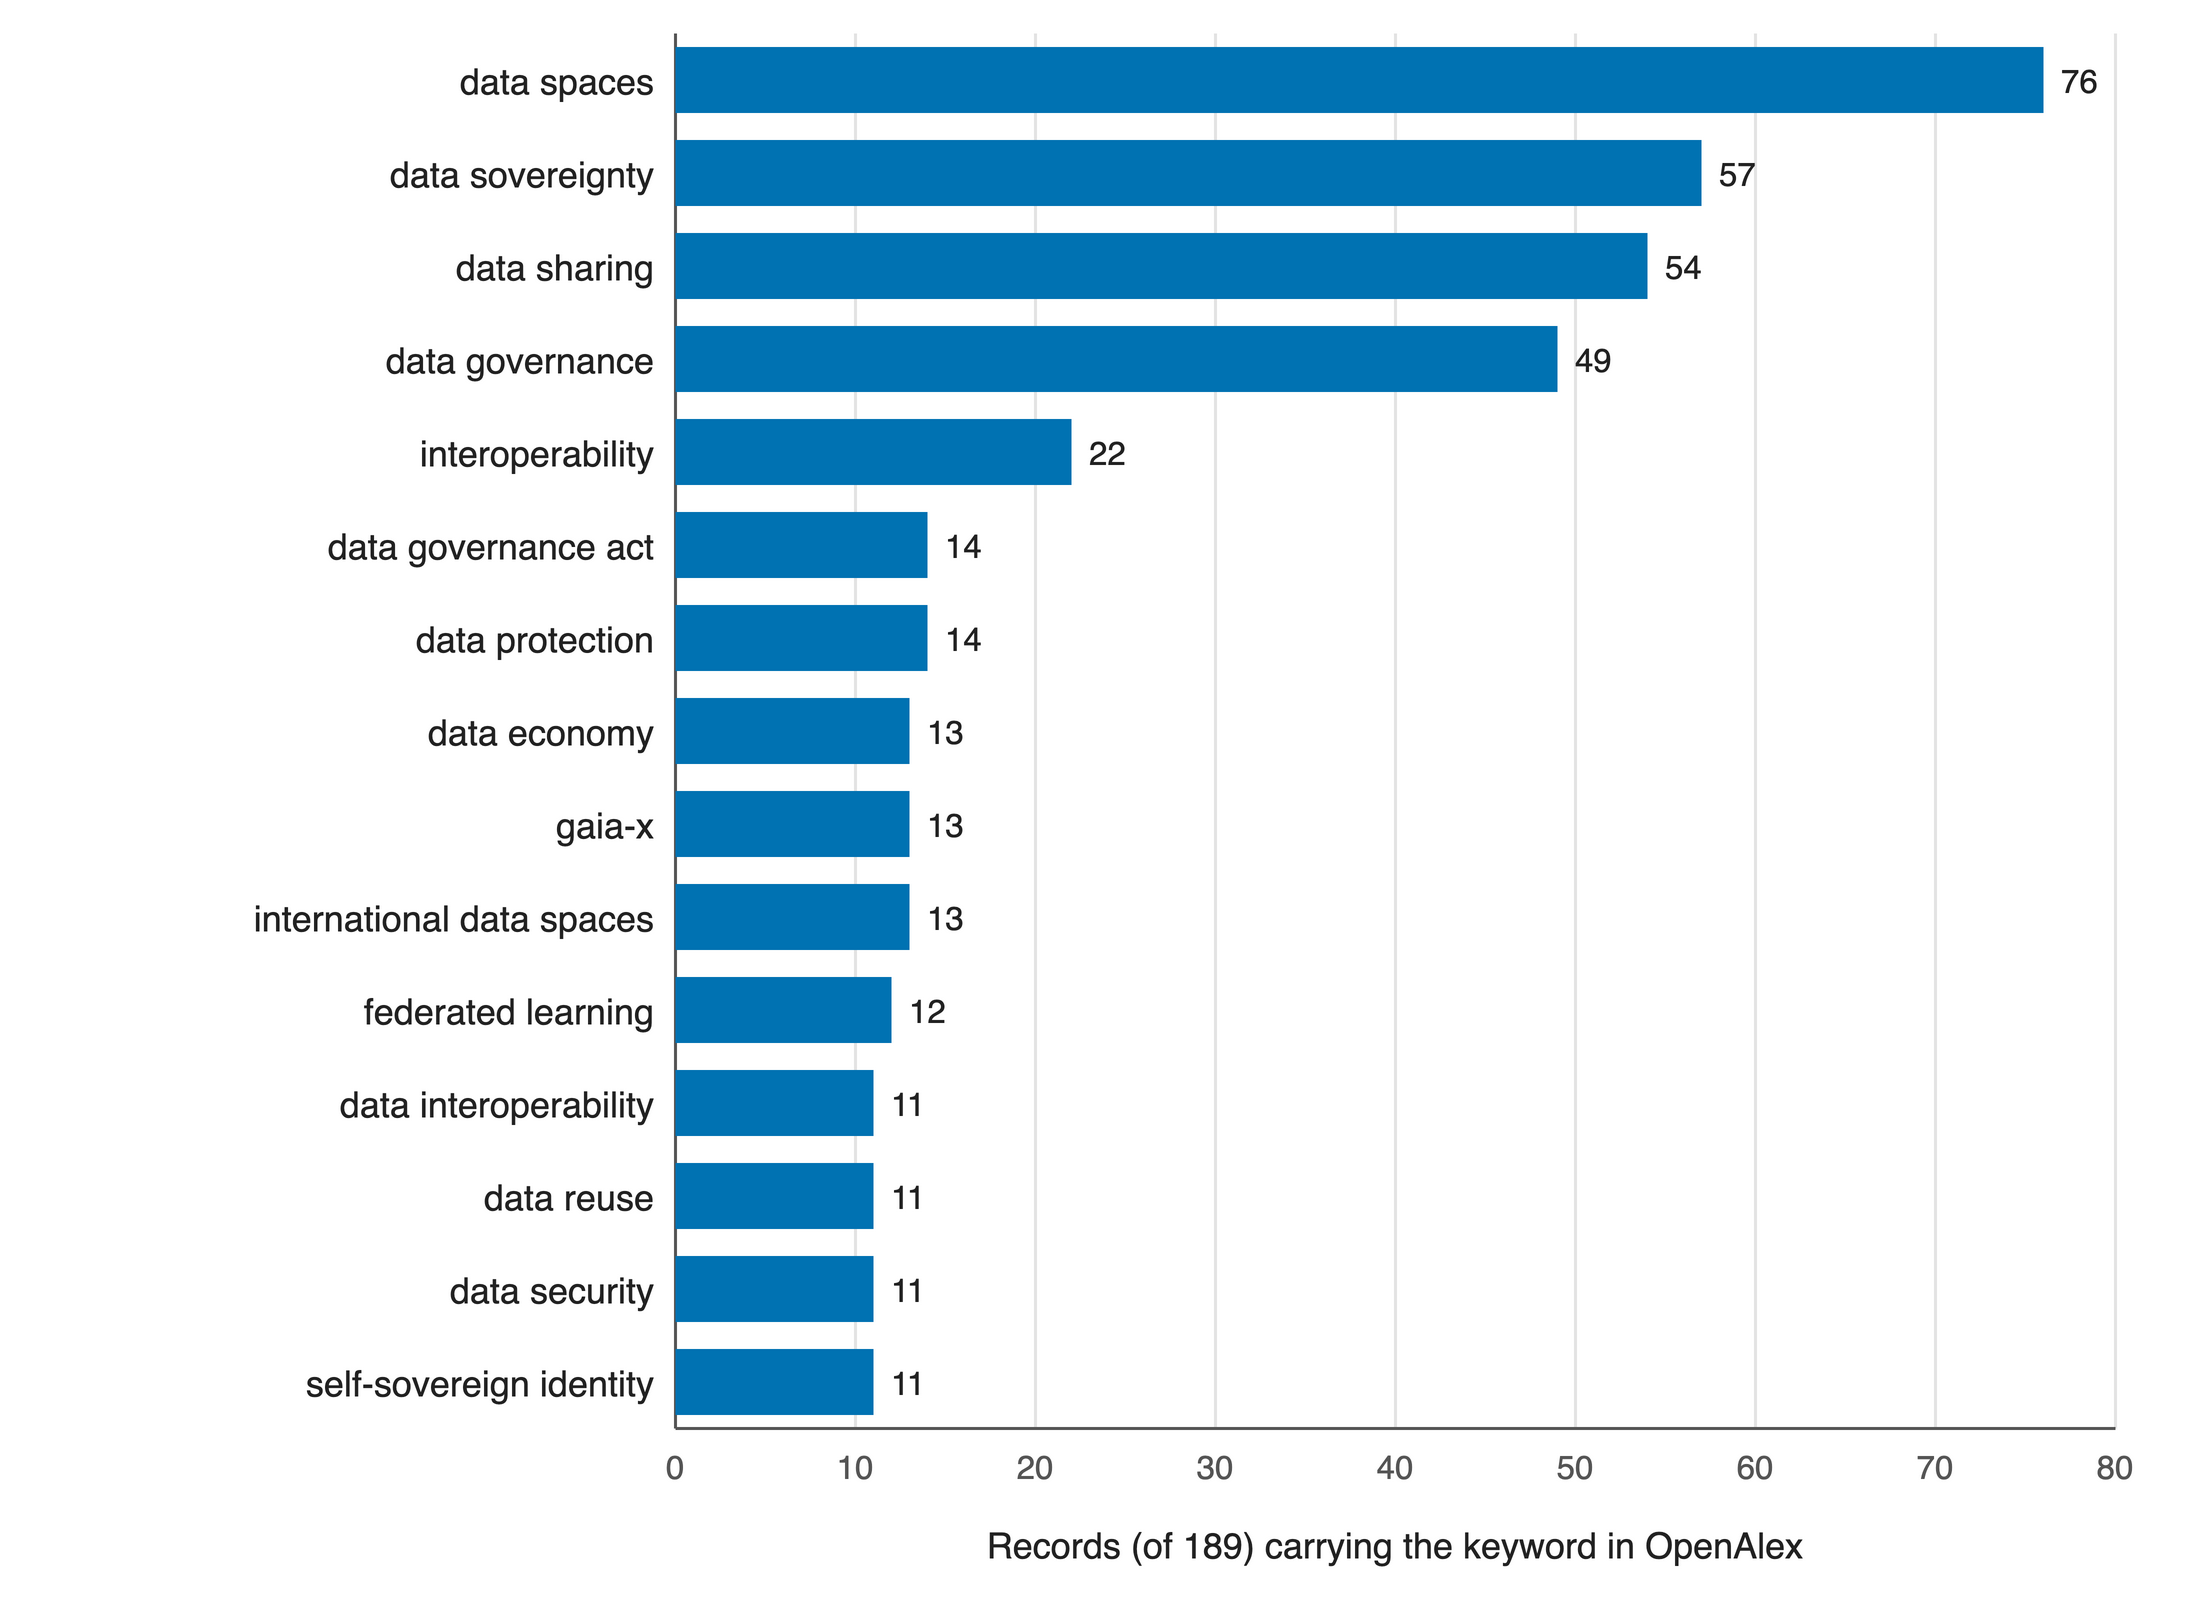
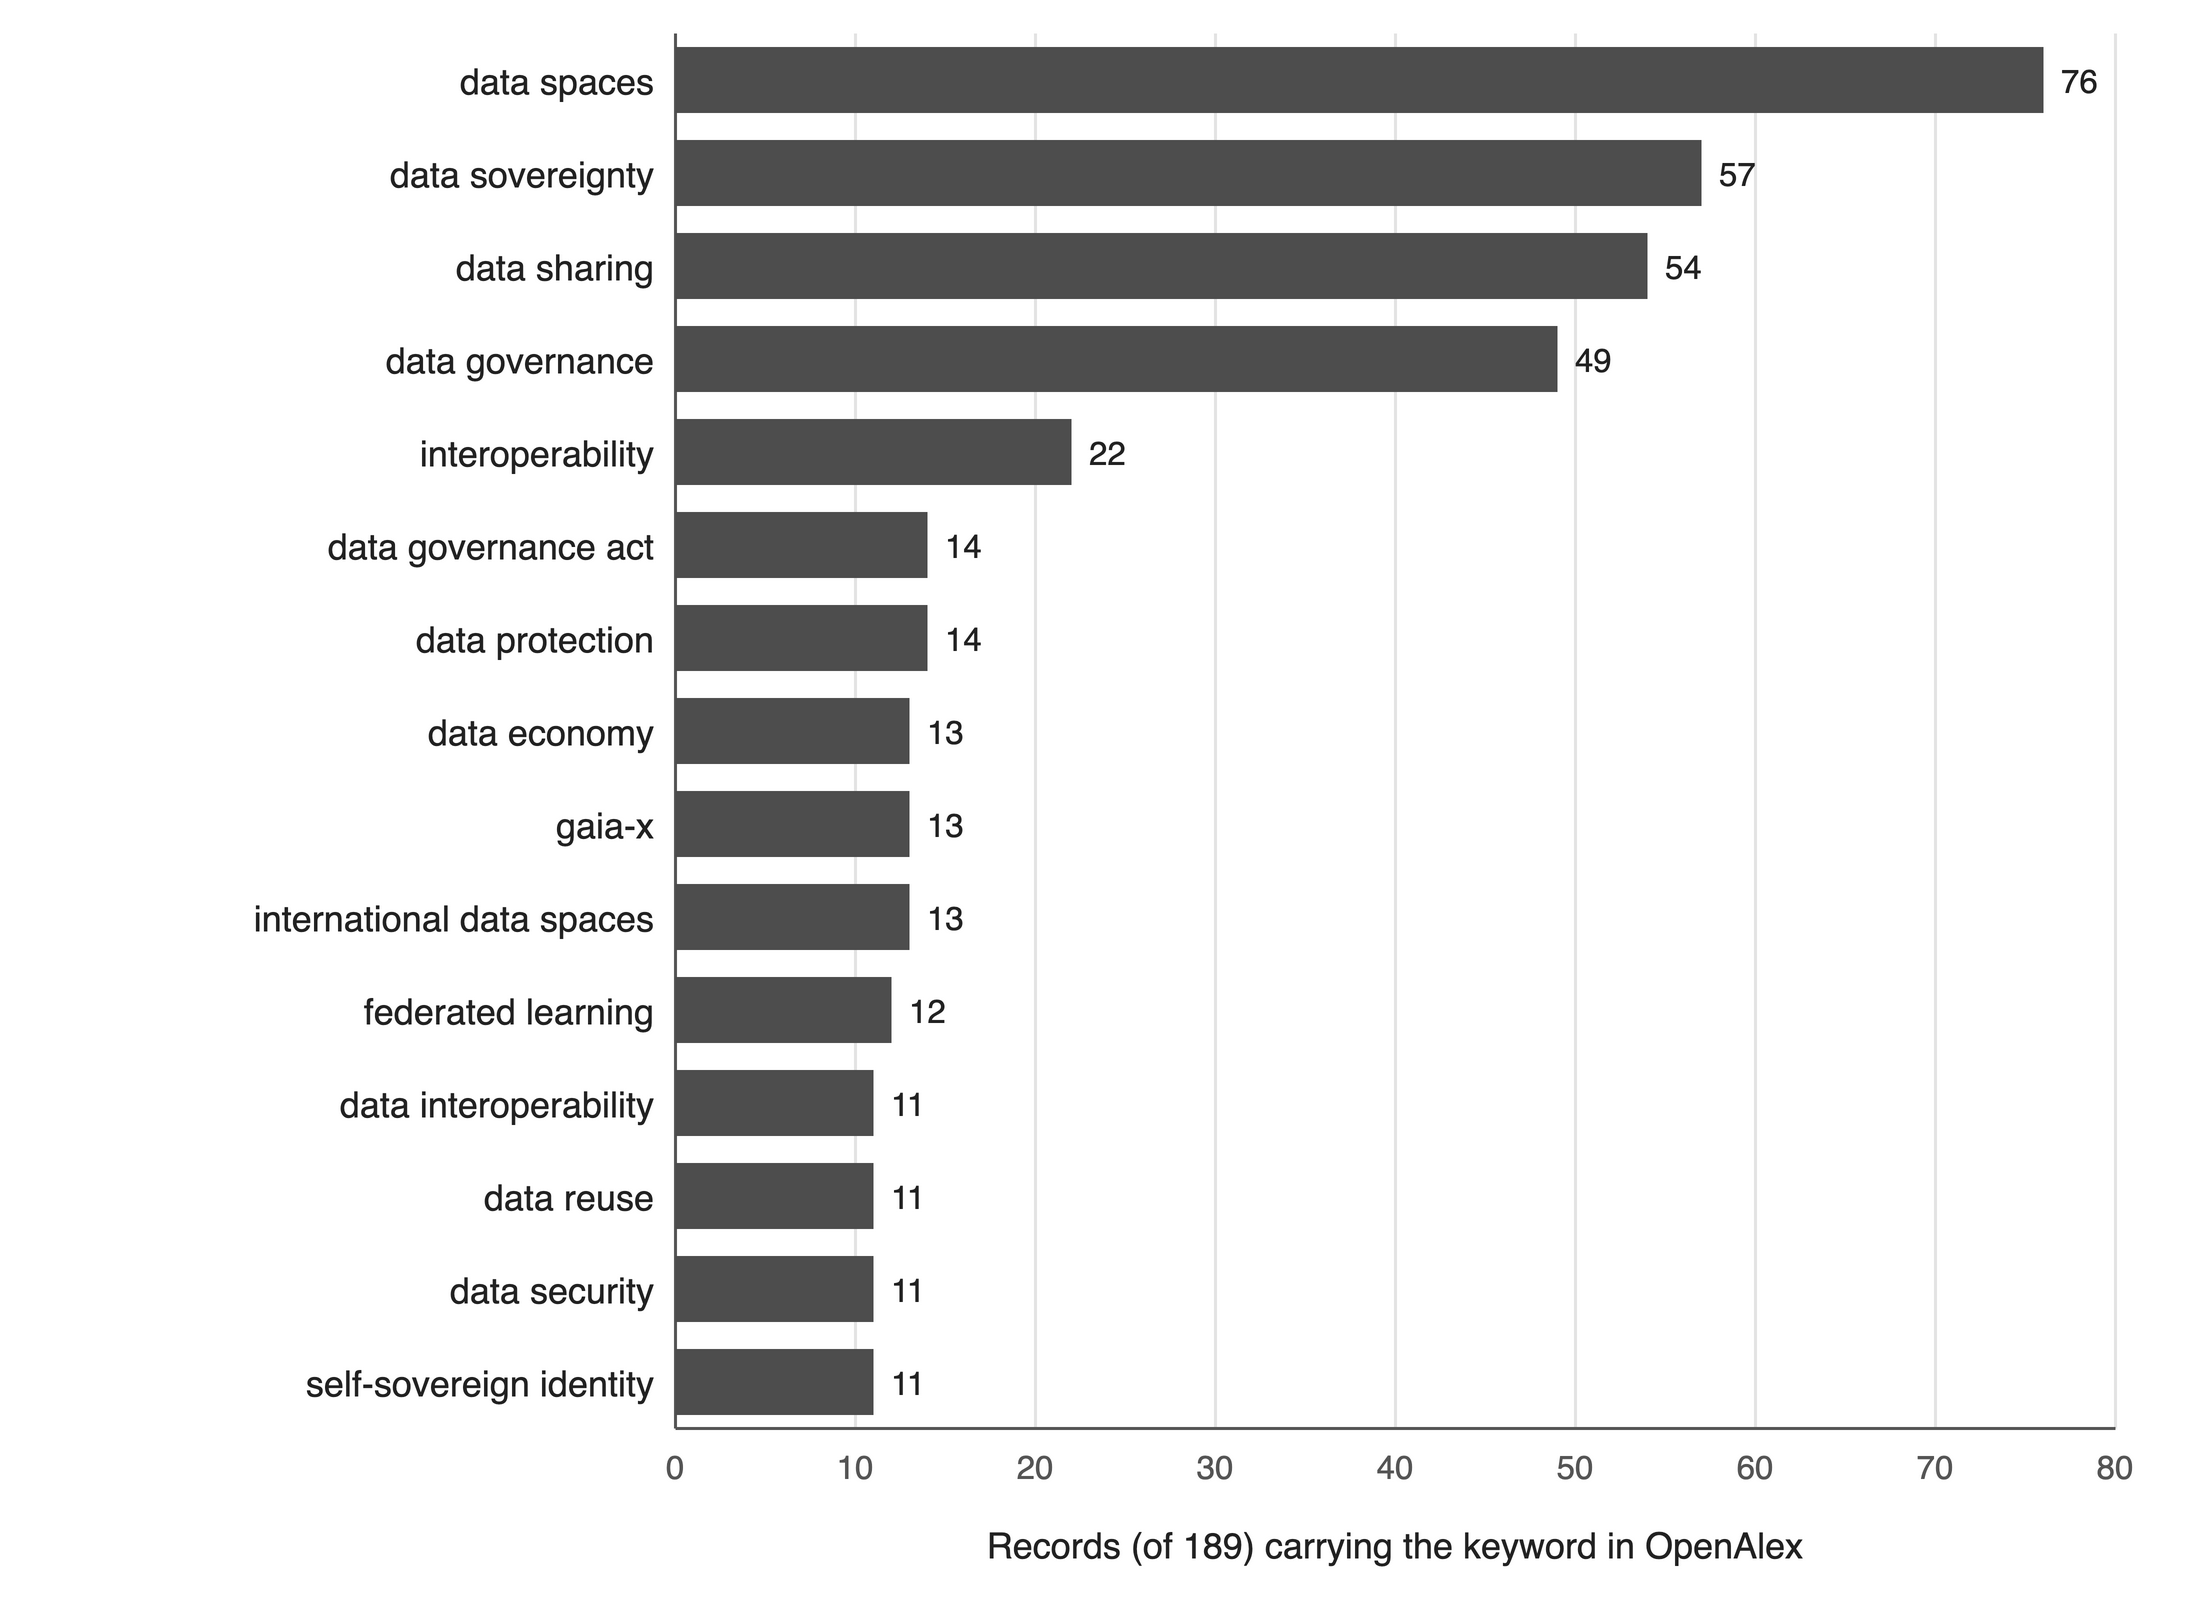
Bibliometric figures in black and white with named legends

Changed region(s): [[0.3081, 0.031, 0.9243, 0.9001]]

diff --git a/src/04_make_figures.py b/src/04_make_figures.py
@@ -20,9 +20,13 @@ RQ_NAME = {
     "RQ4": "RQ4 Gaps and challenges",
     "RQ5": "RQ5 Emerging technologies",
 }
-RQ_COL = {"RQ1": "#0072B2", "RQ2": "#E69F00", "RQ3": "#009E73",
-          "RQ4": "#CC79A7", "RQ5": "#56B4E9"}
-EV_COL = {"A": "#0072B2", "S": "#56B4E9", "M": "#BDBDBD"}
+# black-and-white palette: five grey steps, darkest first; legends carry the names
+RQ_COL = {"RQ1": "#1A1A1A", "RQ2": "#4D4D4D", "RQ3": "#8C8C8C",
+          "RQ4": "#BFBFBF", "RQ5": "#E6E6E6"}
+RQ_LEGEND = {"RQ1": "RQ1 Frameworks", "RQ2": "RQ2 Security", "RQ3": "RQ3 Interoperability",
+             "RQ4": "RQ4 Gaps", "RQ5": "RQ5 Technologies"}
+BAR = "#4D4D4D"
+EV_COL = {"A": "#1A1A1A", "S": "#8C8C8C", "M": "#D9D9D9"}
 EV_NAME = {"A": "A  abstract assessed", "S": "S  sections read", "M": "M  metadata only"}
 GRID, AXIS, TXT = "#E3E3E3", "#555555", "#222222"
 
@@ -87,8 +91,8 @@ def save(g, stem):
 # ---- Figure 1: records per year, stacked by research question ---------------
 rows = read("year_by_rq.csv")
 RQS = ["RQ1", "RQ2", "RQ3", "RQ4", "RQ5"]
-W, H = 760, 430
-left, top, bottom = 70, 60, 70
+W, H = 760, 480
+left, top, bottom = 70, 60, 120
 plot_w, plot_h = W - left - 30, H - top - bottom
 totals = [sum(int(r[q]) for q in RQS) for r in rows]
 vmax = nice_max(max(totals))
@@ -112,18 +116,20 @@ for i, r in enumerate(rows):
         ycur -= h
         g.rect(x, ycur, bw, h, fill=RQ_COL[q], stroke="#ffffff", stroke_w=1,
                text=str(v) if h >= 13 else "", size=11,
-               color="#ffffff" if q in ("RQ1", "RQ3", "RQ4") else "#222222")
+               color="#ffffff" if q in ("RQ1", "RQ2") else "#222222")
     g.text(x - 10, ycur - 20, bw + 20, 18, str(totals[i]), size=12, bold=True)
     g.text(x - 15, top + plot_h + 4, bw + 30, 36,
            f"{r['year']}<br>({r['unique_records']} unique)", size=11, color=TXT)
 g.text(8, top + plot_h / 2 - 10, 20, 20, "", size=11)
 g.text(left - 60, 8, 220, 22, "Placements (bold: total per year)", size=11, color=AXIS, align="left")
-lx, ly = left, H - 28
-for q in RQS:
-    g.rect(lx, ly + 4, 12, 12, fill=RQ_COL[q])
-    g.text(lx + 15, ly, 70, 20, q, size=11, align="left")
-    lx += 80
-g.text(lx + 10, ly, 300, 20, "n = number of unique records", size=11, color=AXIS, align="left")
+g.text(left, H - 84, 300, 20, "Research question (stack order, bottom to top):", size=11,
+       color=AXIS, align="left")
+for i, q in enumerate(RQS):
+    lx = left + (i % 3) * 215
+    ly = H - 60 + (i // 3) * 28
+    g.rect(lx, ly + 4, 14, 14, fill=RQ_COL[q], stroke="#666666", stroke_w=0.5)
+    g.text(lx + 19, ly, 190, 22, RQ_LEGEND[q], size=11, align="left")
+g.text(left + 2 * 215, H - 32, 280, 22, "n = unique records", size=11, color=AXIS, align="left")
 save(g, "fig_bib_1_records_per_year")
 
 # ---- Figure 2: evidence level by research question --------------------------
@@ -155,7 +161,7 @@ for i, r in enumerate(rows):
 g.text(x0, top + 5 * (bar_h + gap) + 24, plot_w, 20, "Records per research question (50 each)", size=12)
 lx, ly = 20, H - 30
 for e in ("A", "S", "M"):
-    g.rect(lx, ly + 4, 12, 12, fill=EV_COL[e])
+    g.rect(lx, ly + 4, 14, 14, fill=EV_COL[e], stroke="#666666", stroke_w=0.5)
     g.text(lx + 15, ly, 170, 20, EV_NAME[e], size=11, align="left")
     lx += 200
 save(g, "fig_bib_2_evidence_by_rq")
@@ -164,14 +170,14 @@ save(g, "fig_bib_2_evidence_by_rq")
 kw = [(r["keyword"], int(r["records"])) for r in read("keywords_top.csv")]
 kw, k_kw = cut_ties(kw, 15)
 print(f"keywords shown: {len(kw)} (records >= {k_kw})")
-save(hbar("keywords", kw, "#0072B2",
+save(hbar("keywords", kw, BAR,
           "Records (of 189) carrying the keyword in OpenAlex", label_w=210), "fig_bib_3_keywords")
 
 # ---- Figure 4: countries ----------------------------------------------------
 co = [(r["country"], int(r["records"])) for r in read("countries.csv")]
 co, k_co = cut_ties(co, 15)
 print(f"countries shown: {len(co)} (records >= {k_co})")
-save(hbar("countries", co, "#009E73",
+save(hbar("countries", co, BAR,
           "Records (of 168 with affiliation data) with at least one author in the country",
           label_w=150), "fig_bib_4_countries")
 
@@ -179,7 +185,7 @@ save(hbar("countries", co, "#009E73",
 au = [(r["author"], int(r["records"])) for r in read("authors_top.csv")]
 au, k_au = cut_ties(au, 12)
 print(f"authors shown: {len(au)} (records >= {k_au})")
-save(hbar("authors", au, "#E69F00", "Records (of 189) with the person as author",
+save(hbar("authors", au, BAR, "Records (of 189) with the person as author",
           label_w=150), "fig_bib_5_authors")
 (RES / "figure_cutoffs.json").write_text(
     f'{{"keywords_min_records": {k_kw}, "countries_min_records": {k_co}, '
